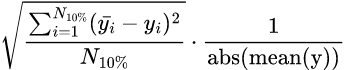
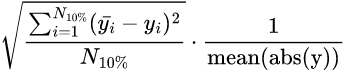
add infoboxes design

Changed region(s): [[0.5797, 0.6857, 0.8986, 1.0]]

diff --git a/react-frontend/src/pages/VizPage.tsx b/react-frontend/src/pages/VizPage.tsx
@@ -3,6 +3,7 @@ import D3DetailSquares, { D3DetailSquaresPatient } from "../components/d3detailS
 import D3Histogram from "../components/d3histogram";
 import DataUploadPane from "../components/DataUploadPane";
 import { groupcolor } from "../components/groupcolor";
+import Icons from "../components/icons";
 import StackedGradients from "../components/StackedGradients";
 import { FeatureInfo, FeatureGroup } from "../types/feature_types";
 
@@ -42,7 +43,7 @@ class VizPage extends React.Component<VizPageProps,VizState> {
          }
         return (<>
             <aside className="sidenav with-padding">  
-            <div className="infobox">For each of the features (medical variables), the following gradients illustrate the percentage of missing data over patients. 
+            <div className="infobox"><Icons icon="info-circle"/> &nbsp;For each of the features (medical variables), the following gradients illustrate the percentage of missing data over patients. 
               <br></br>In every <em>feature gradient</em>, each patient is represented by one narrow vertical bar. If the data of this patient for this specific feature is completely missing, the narrow vertical bar will be black, if is is available for the entire timespan, it will be white. </div>
             <div className="gradientLegend"><svg height={40}><rect height={30} width={30} fill="black"></rect><text height={130} width={130} x={40} y={20}>100% Missing</text>
                    <rect height={30} width={30} x={150} fill="white"></rect><text height={130} width={130} x={190} y={20}>100% Available</text></svg></div>
@@ -66,7 +67,8 @@ class VizPage extends React.Component<VizPageProps,VizState> {
             </aside>
 
             <main className="main">   
-            Choose a csv file from the folder example-data.        
+            Choose a csv file from the folder example-data. 
+            <div className="infobox small"><Icons icon="info-circle"/> &nbsp;If you use your own data, it must have a column "id" which designates the patient ID, and the column "time", containing consecutive integers starting at 0 for each timestep, with no gaps between timesteps.   </div> 
                 <DataUploadPane features={feature_names} onChange={this.props.handleDataUpload}/>
                 <hr/>
                 {this.state.selectedFeature && <D3Histogram featureInfo={this.state.selectedFeature}/>}

diff --git a/react-frontend/src/pages/ImputePage.tsx b/react-frontend/src/pages/ImputePage.tsx
@@ -118,10 +118,10 @@ class ImputePage extends React.Component<ImputePageProps,{loading:boolean,appErr
         <main className="main">
            
             <h2>Estimated imputation performance </h2>
-            <div className="infobox">
-            The imputation score is calculated as follows: 10% of the avilable data is removed and then imputed using the chosen imputation method. To compare these imputations with the baseline, we chose the following formula, a root-mean-squared-error divided by the absolute of the mean: 
-            {/*Latex formula, https://latexeditor.lagrida.com/.  \sqrt{\frac{\sum^{N_{10\%}}_{i=1}(\bar{y_i}-y_i)^2}{N_{10\%}}} \cdot\frac{1}{\text{abs(mean(y))}}  */}
-            <br></br><img alt="formula:  \sqrt{\frac{\sum^{N_{10\%}}_{i=1}(\bar{y_i}-y_i)^2}{N_{10\%}}} \cdot\frac{1}{\text{abs(mean(y))}} " src="/imputation-score-formula.png" height={60}></img>
+            <div className="infobox"><Icons icon="info-circle"/> &nbsp;
+            The imputation score is calculated as follows: 10% of the avilable data is removed and then imputed using the chosen imputation method. To compare these imputations with the baseline, we chose the following formula, a root-mean-squared-error divided by the mean the absolute values: 
+            {/*Latex formula, https://latexeditor.lagrida.com/.  \sqrt{\frac{\sum^{N_{10\%}}_{i=1}(\bar{y_i}-y_i)^2}{N_{10\%}}} \cdot\frac{1}{\text{mean(abs(y))}}  */}
+            <br></br><img alt="formula:  \sqrt{\frac{\sum^{N_{10\%}}_{i=1}(\bar{y_i}-y_i)^2}{N_{10\%}}} \cdot\frac{1}{\text{mean(abs(y))}} " src="/imputation-score-formula.png" height={60}></img>
             <br/> 
                         </div>
             <p>Legend:</p>

diff --git a/react-frontend/src/components/icons.tsx b/react-frontend/src/components/icons.tsx
@@ -43,7 +43,13 @@ class Icons extends React.Component<{icon: string},{}>{
       <path d="M7.646 15.854a.5.5 0 0 0 .708 0l3-3a.5.5 0 0 0-.708-.708L8.5 14.293V5.5a.5.5 0 0 0-1 0v8.793l-2.146-2.147a.5.5 0 0 0-.708.708l3 3z"/>
     </svg>;
       } 
-    return 
+    if (this.props.icon ==="info-circle"){
+          return <svg xmlns="http://www.w3.org/2000/svg" width="16" height="16" fill="currentColor" className="bi bi-info-circle" viewBox="0 0 16 16">
+      <path d="M8 15A7 7 0 1 1 8 1a7 7 0 0 1 0 14zm0 1A8 8 0 1 0 8 0a8 8 0 0 0 0 16z"/>
+      <path d="m8.93 6.588-2.29.287-.082.38.45.083c.294.07.352.176.288.469l-.738 3.468c-.194.897.105 1.319.808 1.319.545 0 1.178-.252 1.465-.598l.088-.416c-.2.176-.492.246-.686.246-.275 0-.375-.193-.304-.533L8.93 6.588zM9 4.5a1 1 0 1 1-2 0 1 1 0 0 1 2 0z"/>
+    </svg>;
+    }
+    return <>Icon not found</>
   }
 
  

diff --git a/react-frontend/src/pages/GroupPage.tsx b/react-frontend/src/pages/GroupPage.tsx
@@ -300,7 +300,7 @@ class GroupPage extends React.Component<GroupPageProps, { activeGroupId: number 
                     <br></br>
 
                     {/* Visualize the Group Structure -- how good is the choice of groups? */}
-                    <div className="infobox">
+                    <div className="infobox"><Icons icon="info-circle"/> &nbsp;
                     By clustering features into different groups according to their missing value patterns, we can choose different imputation method suitable for different missing value patterns.
                     </div>
                     <br></br>

diff --git a/react-frontend/src/App.css b/react-frontend/src/App.css
@@ -339,5 +339,18 @@ ul.feature-list > li {
 .gradient-group-title h4 {
   margin: 0;
 }
+.infobox {
+  display: block;
+  max-width: 500px;
+  background-color: #fff;
+  font-size: 0.9em;
+  color: #444;
+  padding: 10px;
+  margin-top: 5px;
+}
+.infobox.small {
+  font-size: 0.7em;
+}
+
 
 
